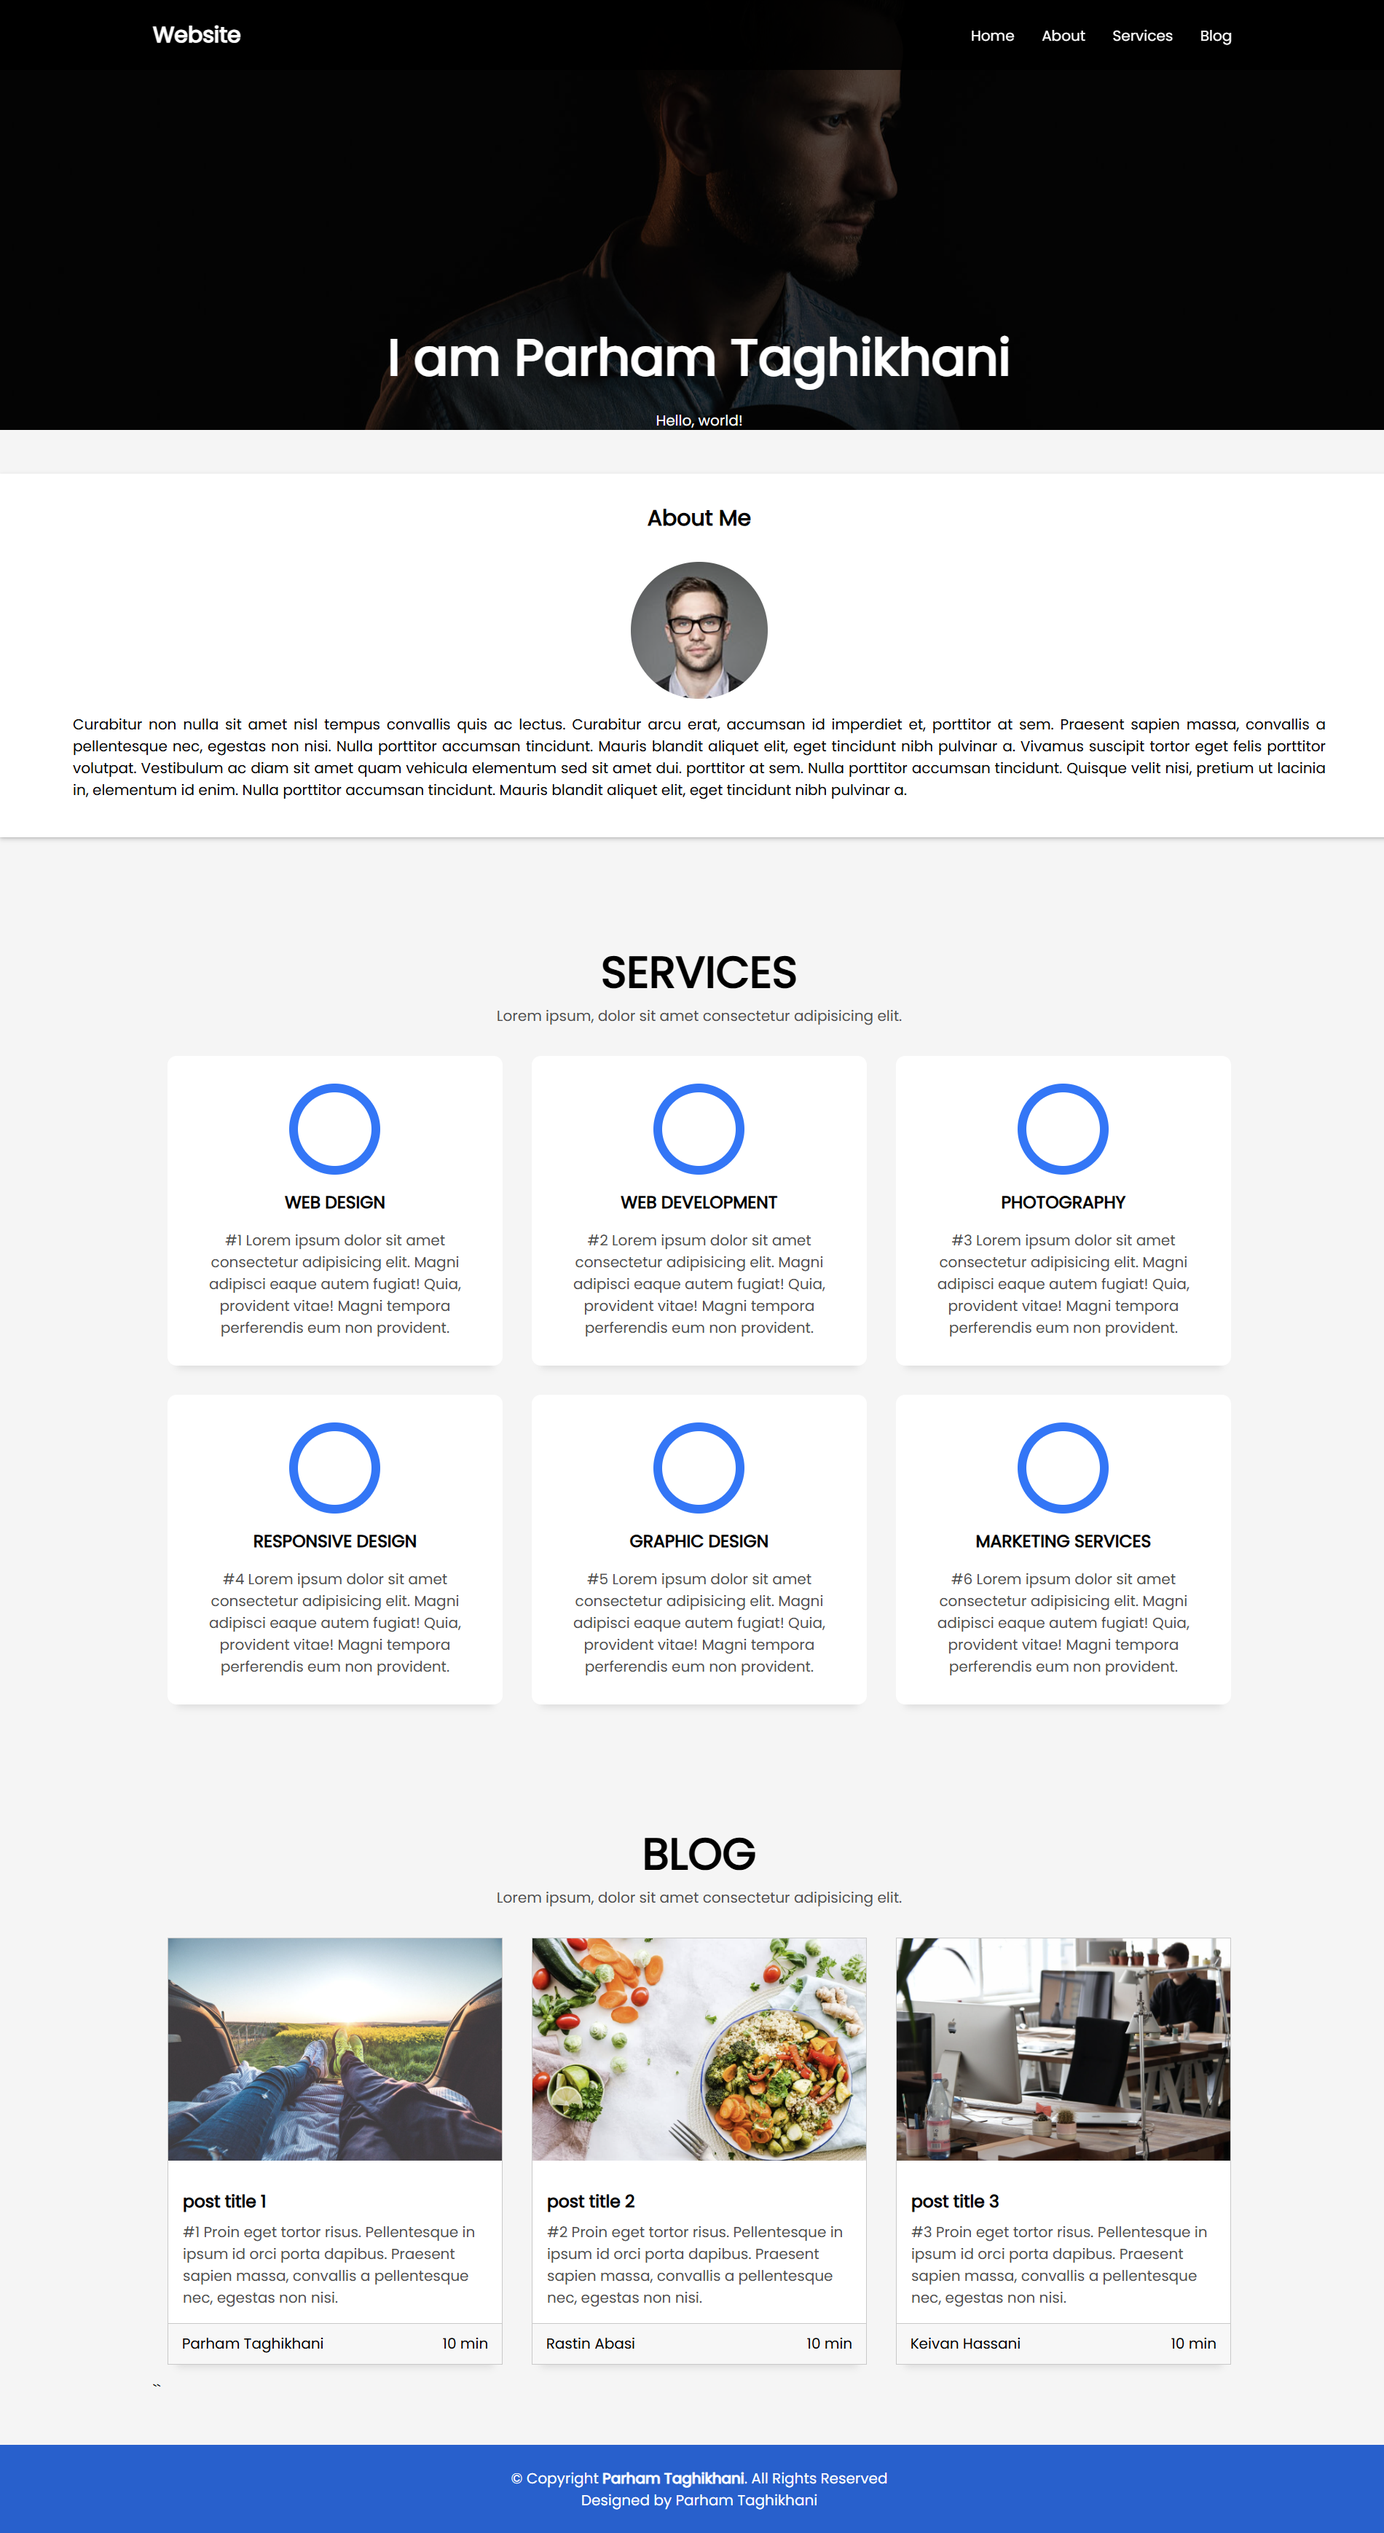
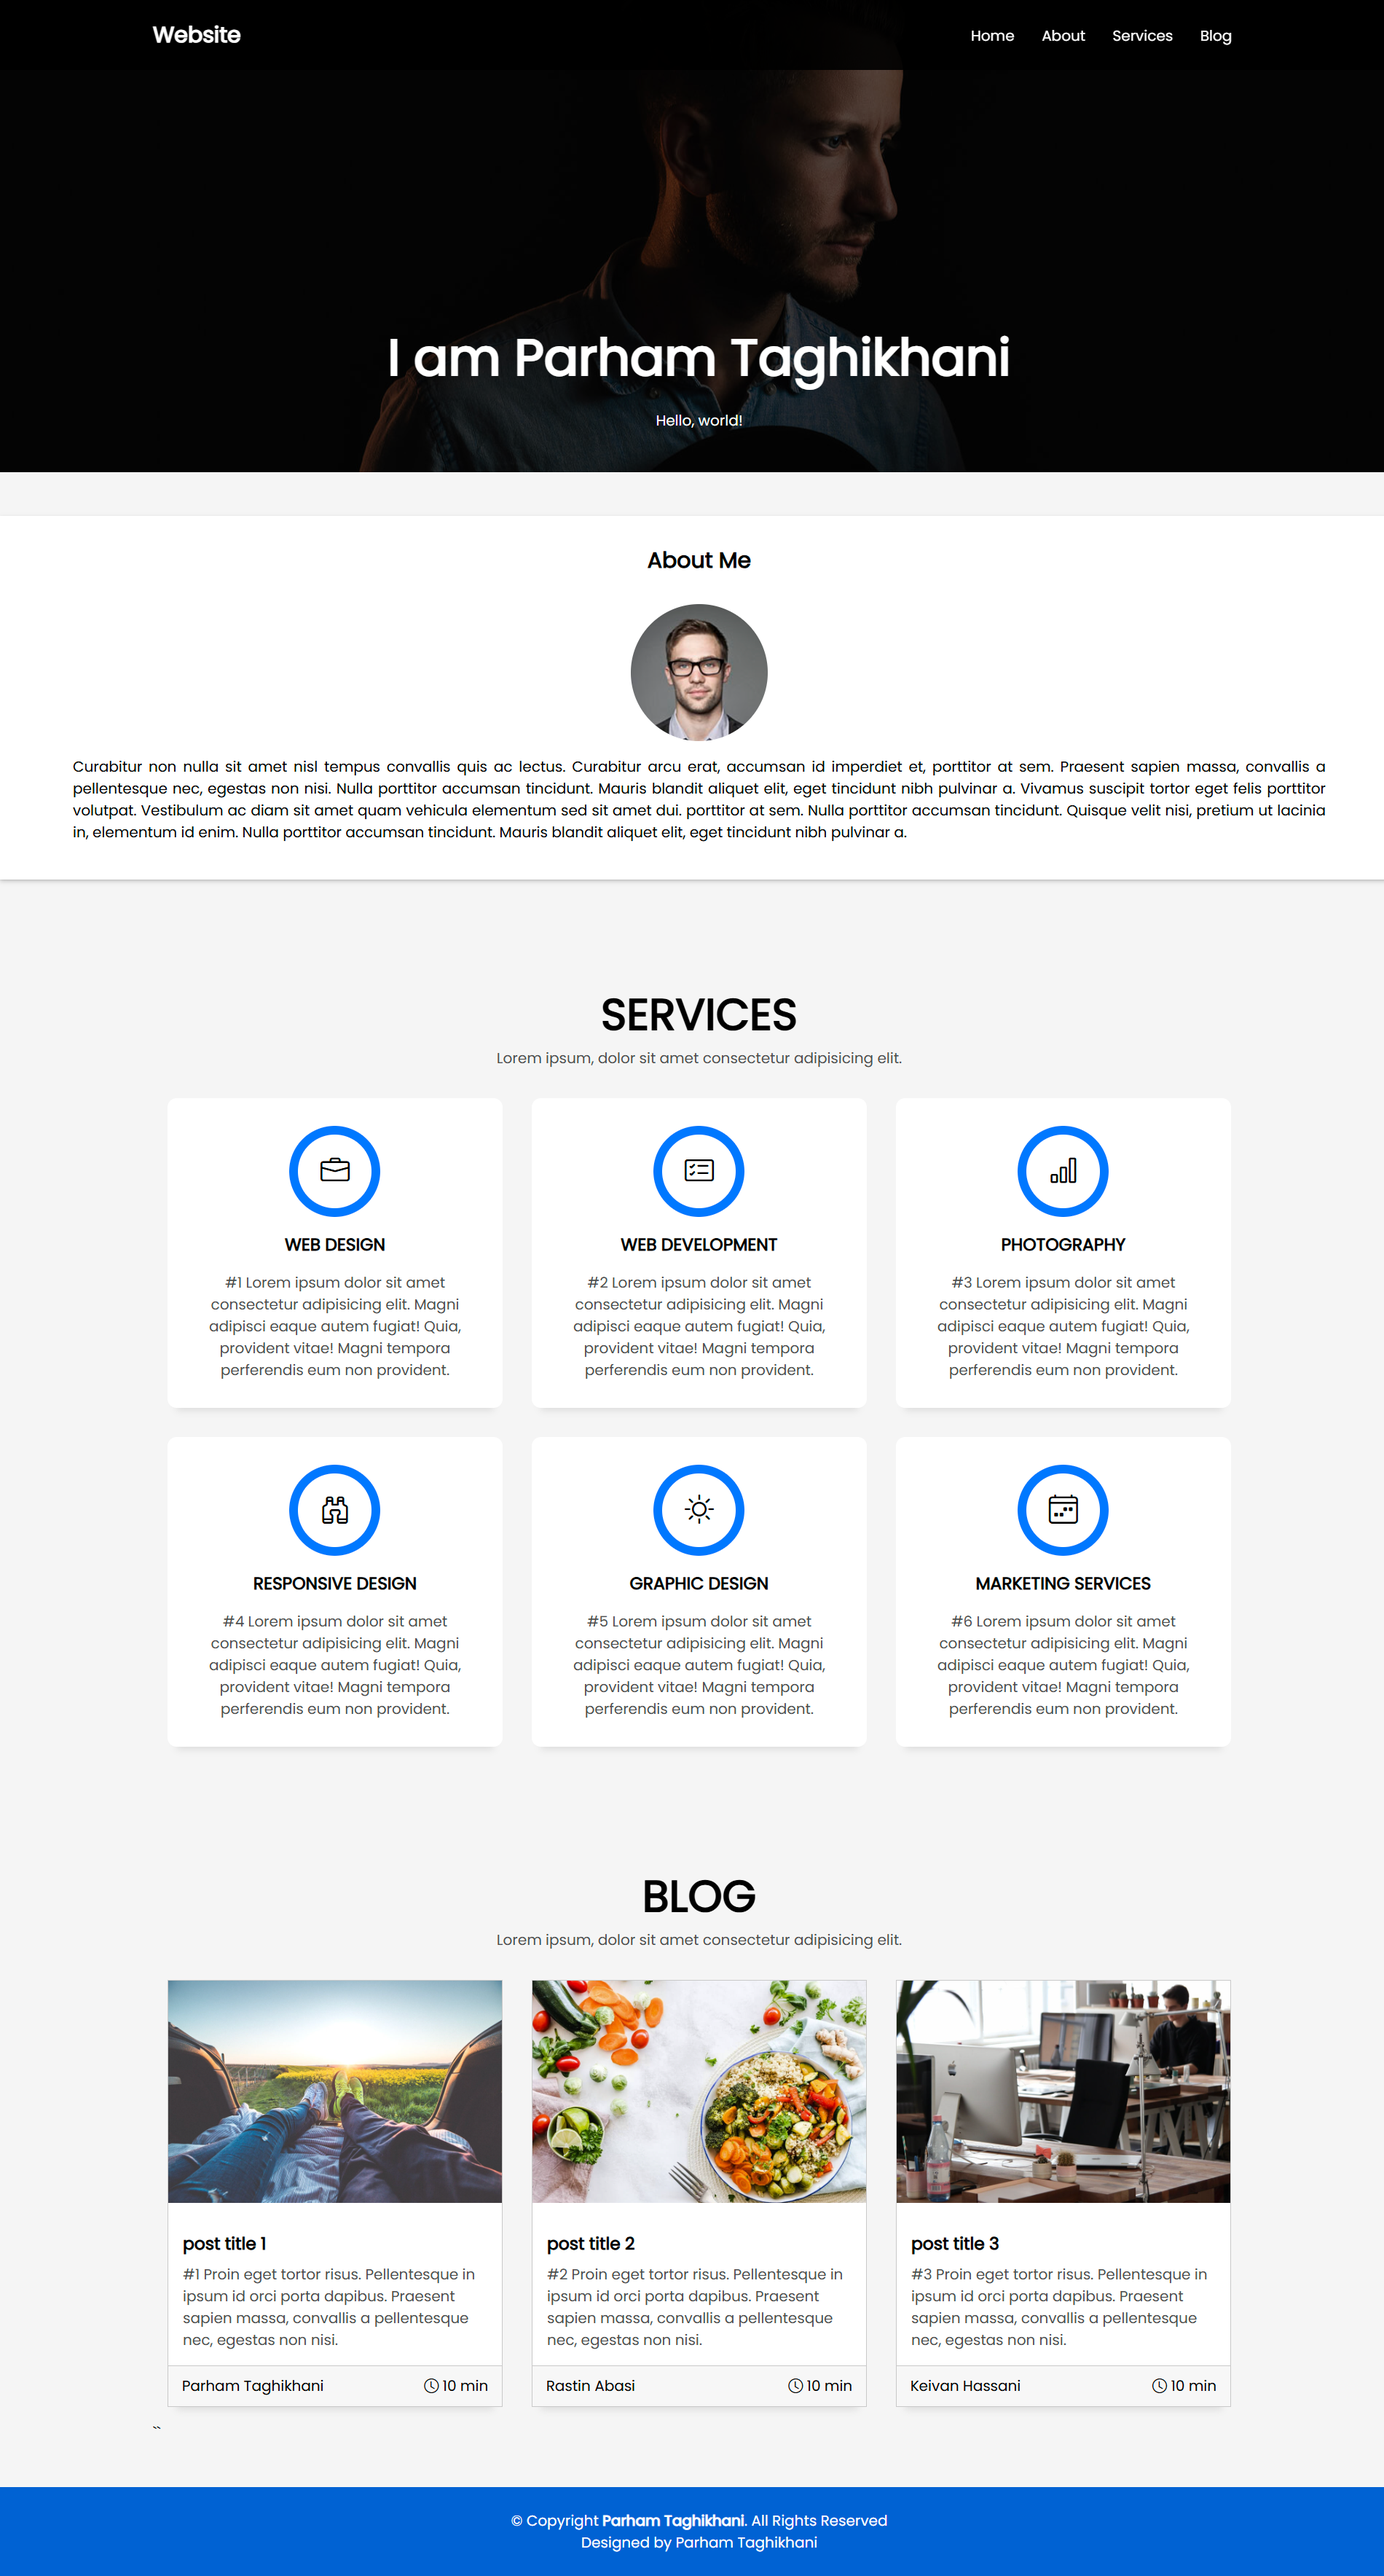
Update README

diff --git a/index.html b/index.html
@@ -4,10 +4,10 @@
     <meta charset="UTF-8" />
     <meta name="viewport" content="width=device-width, initial-scale=1.0" />
     <link rel="stylesheet" href="./css/style.css" />
-    <!-- <link
+    <link
       rel="stylesheet"
       href="https://cdn.jsdelivr.net/npm/bootstrap-icons@1.10.2/font/bootstrap-icons.css"
-    /> -->
+    />
     <title>Portfolio Landing Page</title>
   </head>
   <body>

diff --git a/README.fa.md b/README.fa.md
@@ -1,0 +1,136 @@
+<p align="left">
+
+🌐 **زبان:** فارسی [🇺🇸 English](./README.md) | 🇮🇷
+
+</p>
+
+---
+
+# 🌐 وبسایت شخصی (Portfolio)
+
+یک وبسایت شخصی مدرن و واکنشگرا که با **React** و **Vite** توسعه داده شده است. این پروژه با معماری کامپوننتمحور پیادهسازی شده و محیطی ساده، زیبا و قابل توسعه برای معرفی شخص، خدمات و مقالات فراهم میکند.
+
+---
+
+## ✨ ویژگیها
+
+- طراحی کاملاً واکنشگرا (Responsive)
+- رابط کاربری مدرن و مینیمال
+- معماری مبتنی بر کامپوننت
+- بخش معرفی (About)
+- بخش خدمات (Services)
+- بخش وبلاگ (Blog)
+- ناوبری روان بین بخشهای مختلف
+- قابلیت شخصیسازی و توسعه آسان
+
+---
+
+## 🛠 تکنولوژیهای استفادهشده
+
+- React 19
+- Vite
+- JavaScript (ES6+)
+- CSS3
+- HTML5
+
+---
+
+## 📂 ساختار پروژه
+
+```text
+src/
+├── components/
+│   ├── about/
+│   ├── blog/
+│   ├── footer/
+│   ├── header/
+│   └── services/
+├── App.jsx
+├── main.jsx
+└── main.css
+
+asset/
+├── fonts/
+└── img/
+
+Screenshots/
+└── Home.png
+```
+
+---
+
+## 🚀 نحوه اجرا
+
+ابتدا پروژه را Clone کنید:
+
+```bash
+git clone https://github.com/Parham-Codes/REPOSITORY_NAME.git
+```
+
+وارد پوشه پروژه شوید:
+
+```bash
+cd REPOSITORY_NAME
+```
+
+وابستگیها را نصب کنید:
+
+```bash
+npm install
+```
+
+سرور توسعه را اجرا کنید:
+
+```bash
+npm run dev
+```
+
+برای ساخت نسخه Production:
+
+```bash
+npm run build
+```
+
+برای مشاهده نسخه Production:
+
+```bash
+npm run preview
+```
+
+---
+
+## 🎯 اهداف این پروژه
+
+این پروژه با هدف تمرین و تقویت مهارتهای زیر توسعه داده شده است:
+
+- ساخت کامپوننتهای React
+- استفاده از معماری Component-Based
+- مدیریت Props
+- ساختاردهی استاندارد پروژه
+- طراحی واکنشگرا (Responsive Design)
+- توسعه رابط کاربری تمیز و مدرن
+
+---
+
+## 📷 اسکرینشات
+
+| صفحه اصلی                   |
+| --------------------------- |
+| ![](./Screenshots/Home.png) |
+
+---
+
+# 👨💻 توسعهدهنده
+
+**پرهام تقیخانی**
+
+GitHub: https://github.com/Parham-Codes
+Email: parhamtaghikhani.31@gmail.com
+
+---
+
+<div align="center">
+
+### ⭐ اگر از این پروژه خوشتان آمد، با دادن یک Star از آن حمایت کنید.
+
+</div>

diff --git a/README.md b/README.md
@@ -1,0 +1,136 @@
+<p align="right">
+
+🌐 **Language:** 🇺🇸 English | [🇮🇷 فارسی](./README.fa.md)
+
+</p>
+
+---
+
+# 🌐 Portfolio Website
+
+A modern and responsive portfolio website built with **React** and **Vite**. This project demonstrates a clean component-based architecture and a simple, elegant user interface suitable for showcasing personal information, services, and blog posts.
+
+---
+
+## ✨ Features
+
+- Responsive landing page
+- Clean and modern UI
+- Component-based architecture
+- About section
+- Services section
+- Blog section
+- Smooth navigation between sections
+- Easy to customize and extend
+
+---
+
+## 🛠 Built With
+
+- React 19
+- Vite
+- JavaScript (ES6+)
+- CSS3
+- HTML5
+
+---
+
+## 📂 Project Structure
+
+```text
+src/
+├── components/
+│   ├── about/
+│   ├── blog/
+│   ├── footer/
+│   ├── header/
+│   └── services/
+├── App.jsx
+├── main.jsx
+└── main.css
+
+asset/
+├── fonts/
+└── img/
+
+Screenshots/
+└── Home.png
+```
+
+---
+
+## 🚀 Getting Started
+
+Clone the repository:
+
+```bash
+git clone https://github.com/Parham-Codes/REPOSITORY_NAME.git
+```
+
+Go to the project directory:
+
+```bash
+cd REPOSITORY_NAME
+```
+
+Install dependencies:
+
+```bash
+npm install
+```
+
+Start the development server:
+
+```bash
+npm run dev
+```
+
+Build for production:
+
+```bash
+npm run build
+```
+
+Preview the production build:
+
+```bash
+npm run preview
+```
+
+---
+
+## 🎯 Learning Objectives
+
+This project was created to practice:
+
+- React Functional Components
+- Component Reusability
+- Props
+- Project Structure
+- Responsive Layout
+- Clean UI Development
+
+---
+
+## 📷 Screenshot
+
+| Home                        |
+| --------------------------- |
+| ![](./Screenshots/Home.png) |
+
+---
+
+# 👨💻 Author
+
+**Parham Taghikhani**
+
+GitHub: https://github.com/Parham-Codes
+Email: parhamtaghikhani.31@gmail.com
+
+---
+
+<div align="center">
+
+### ⭐ If you enjoyed this project, consider giving it a Star!
+
+</div>
